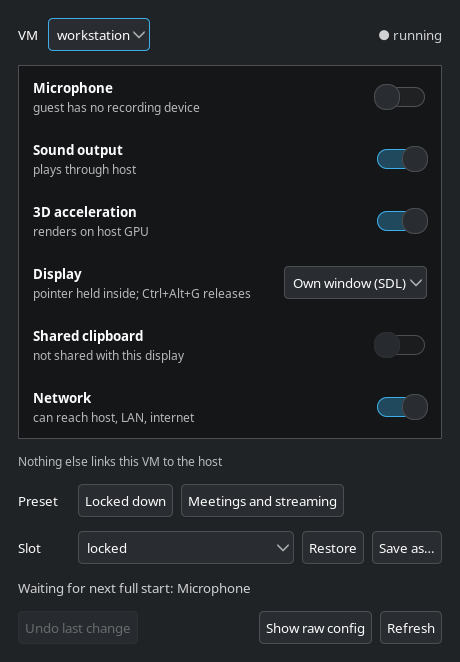
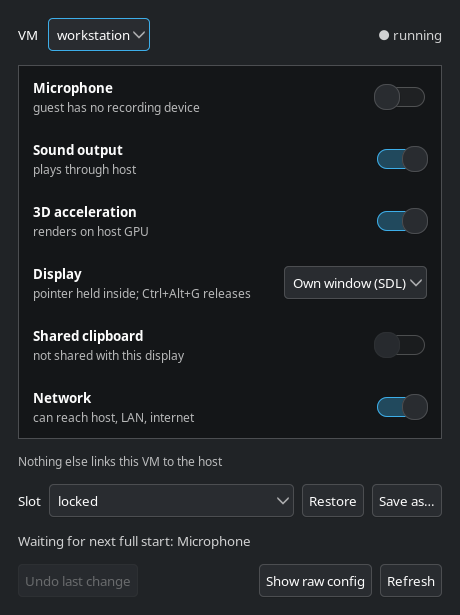
Remove the presets
Save slots cover the same need with the owner's own configurations: set a VM up once, save it under a name, restore it later. The clipboard switch and the list of what else is attached stay.

diff --git a/tests/test_switches.py b/tests/test_switches.py
@@ -90,39 +90,6 @@ class CoreTest(unittest.TestCase):
         self.assertEqual(core.exposures(root),
                          ["2 shared folders", "1 USB redirection port"])
 
-    def test_lockdown_preset(self):
-        root = core.parse(SPICE_VM)
-        core.apply(root, "accel3d", "on")
-        self.assertEqual(core.apply_preset(root, "lockdown"), [])
-        self.assertEqual(values(root), {
-            "mic": "off", "sound": "off", "accel3d": "off",
-            "display": "spice", "clipboard": "off", "network": "off"})
-
-    def test_lockdown_preset_keeps_an_own_window(self):
-        root = core.parse(SPICE_VM)
-        core.apply(root, "display", "gtk", WAYLAND)
-        core.apply_preset(root, "lockdown")
-        self.assertEqual(values(root)["display"], "gtk")
-        self.assertEqual(values(root)["clipboard"], "off")
-
-    def test_media_preset(self):
-        root = core.parse(SPICE_VM)
-        core.apply_preset(root, "lockdown")
-        self.assertEqual(core.apply_preset(root, "media", WAYLAND), [])
-        self.assertEqual(values(root), {
-            "mic": "on", "sound": "on", "accel3d": "on",
-            "display": "sdl", "clipboard": "off", "network": "on"})
-
-    def test_preset_skips_what_the_vm_cannot_do(self):
-        root = core.parse(SPICE_VM)
-        nothing = dict(X11, display="", xauth="")
-        self.assertEqual(core.apply_preset(root, "media", nothing),
-                         ["display"])
-        self.assertEqual(values(root)["display"], "spice")
-        self.assertEqual(values(root)["accel3d"], "on")
-        self.assertEqual(
-            core.apply_preset(core.parse(SPICE_VM), "media", WAYLAND,
-                              fixed=("display",)), ["display"])
 
     def test_microphone_off_and_on(self):
         root = core.parse(SPICE_VM)
@@ -369,18 +336,6 @@ class ManagerTest(unittest.TestCase):
         with self.assertRaises(RuntimeError):
             self.manager.restore_slot(self.vm, "../sample")
 
-    def test_preset_is_one_undo_step(self):
-        skipped = self.manager.apply_preset(self.vm, "lockdown")
-        self.assertEqual(skipped, [])
-        state = self.manager.state(self.vm)
-        self.assertEqual(state["network"]["value"], "off")
-        self.assertEqual(state["sound"]["value"], "off")
-        self.manager.undo(self.vm)
-        with open(os.path.join(self.vms, "sample.xml")) as handle:
-            self.assertEqual(handle.read(), SPICE_VM)
-        self.assertFalse(self.manager.can_undo(self.vm))
-        with self.assertRaises(RuntimeError):
-            self.manager.apply_preset(self.vm, "bogus")
 
     def test_pending_compares_running_and_stored(self):
         with open(os.path.join(self.vms, "sample.live.xml"), "w") as handle:

diff --git a/convirtlib/ui.py b/convirtlib/ui.py
@@ -58,18 +58,8 @@ class Window(Gtk.Window):
         self.attached.get_style_context().add_class("convirt-meaning")
         box.pack_start(self.attached, False, False, 0)
 
-        self.extras = []
-        presets = Gtk.Box(spacing=8)
-        presets.pack_start(self.side_label("Preset"), False, False, 0)
-        for name, preset in core.PRESETS.items():
-            button = Gtk.Button(label=preset["label"])
-            button.connect("clicked", self.on_preset, name)
-            presets.pack_start(button, False, False, 0)
-            self.extras.append(button)
-        box.pack_start(presets, False, False, 0)
-
         slots = Gtk.Box(spacing=8)
-        slots.pack_start(self.side_label("Slot"), False, False, 0)
+        slots.pack_start(Gtk.Label(label="Slot"), False, False, 0)
         self.slot_picker = Gtk.ComboBoxText()
         slots.pack_start(self.slot_picker, True, True, 0)
         self.restore = Gtk.Button(label="Restore")
@@ -78,7 +68,7 @@ class Window(Gtk.Window):
         save = Gtk.Button(label="Save as…")
         save.connect("clicked", self.on_save)
         slots.pack_start(save, False, False, 0)
-        self.extras += [self.slot_picker, save]
+        self.extras = [self.slot_picker, save]
         box.pack_start(slots, False, False, 0)
 
         self.status = Gtk.Label(xalign=0)
@@ -100,11 +90,6 @@ class Window(Gtk.Window):
 
         self.connect("destroy", Gtk.main_quit)
         self.reload_list()
-
-    def side_label(self, text):
-        label = Gtk.Label(label=text, xalign=0)
-        label.set_size_request(52, -1)
-        return label
 
     def build_row(self, name):
         row = Gtk.ListBoxRow()
@@ -246,19 +231,6 @@ class Window(Gtk.Window):
             self.reload("Not changed: %s" % error)
             return
         self.reload()
-
-    def on_preset(self, _button, name):
-        label = core.PRESETS[name]["label"]
-        try:
-            skipped = self.manager.apply_preset(self.vm, name)
-        except RuntimeError as error:
-            self.reload("Not changed: %s" % error)
-            return
-        if skipped:
-            names = ", ".join(core.TITLES[s] for s in skipped)
-            self.reload("%s applied; left as it was: %s" % (label, names))
-        else:
-            self.reload("%s applied" % label)
 
     def on_restore(self, _button):
         slot = self.slot_picker.get_active_text()

diff --git a/convirtlib/core.py b/convirtlib/core.py
@@ -34,21 +34,6 @@ TITLES = {
     "network": "Network",
 }
 CLIPBOARD_CHANNEL = "com.redhat.spice.0"
-
-# A preset is a list of switch positions applied in order as one change.
-# A position the VM cannot take (no sound card to mute, say) is skipped.
-PRESETS = {
-    "lockdown": {
-        "label": "Locked down",
-        "set": (("accel3d", "off"), ("sound", "off"), ("mic", "off"),
-                ("clipboard", "off"), ("network", "off")),
-    },
-    "media": {
-        "label": "Meetings and streaming",
-        "set": (("display", "sdl"), ("accel3d", "on"), ("sound", "on"),
-                ("mic", "on"), ("network", "on")),
-    },
-}
 DISPLAY_LABELS = {
     "sdl": "Own window (SDL)",
     "gtk": "Own window (GTK)",
@@ -283,27 +268,6 @@ def exposures(root):
         if count:
             found.append("%d %s" % (count, one if count == 1 else many))
     return found
-
-
-def apply_preset(root, name, facts=None, fixed=()):
-    """Apply a preset in place. Return the switches it had to skip.
-
-    Switches named in fixed are left alone and reported as skipped.
-    """
-    if name not in PRESETS:
-        raise ValueError("unknown preset: %s" % name)
-    skipped = []
-    for switch, value in PRESETS[name]["set"]:
-        if values(root)[switch] == value:
-            continue
-        if switch in fixed:
-            skipped.append(switch)
-            continue
-        try:
-            apply(root, switch, value, facts)
-        except ValueError:
-            skipped.append(switch)
-    return skipped
 
 
 def raw_fragments(root):

diff --git a/convirtlib/manager.py b/convirtlib/manager.py
@@ -173,32 +173,6 @@ class Manager:
             self.backend.define(vm, core.serialize(root))
         return True
 
-    def apply_preset(self, vm, name, facts=None):
-        """Apply a preset as one change. Return the switches it skipped."""
-        if name not in core.PRESETS:
-            raise RuntimeError("unknown preset: %s" % name)
-        # A system VM cannot open a window in this desktop session.
-        fixed = () if vm.session else ("display",)
-        original = self.backend.xml(vm)
-        root = core.parse(original)
-        before = core.values(root)
-        skipped = core.apply_preset(root, name, facts, fixed)
-        if core.values(root) == before:
-            return skipped
-        backup = self._save_backup(vm, original)
-        try:
-            self.backend.define(vm, core.serialize(root))
-        except RuntimeError:
-            os.remove(backup)
-            raise
-        # Same second pass as change(): re-apply on what libvirt stored.
-        root = self.stored(vm)
-        stored = core.values(root)
-        core.apply_preset(root, name, facts, fixed)
-        if core.values(root) != stored:
-            self.backend.define(vm, core.serialize(root))
-        return skipped
-
     # ------------------------------------------------------------- slots
 
     def slots(self, vm):

diff --git a/convirtlib/cli.py b/convirtlib/cli.py
@@ -5,7 +5,6 @@
     convirt show VM               show every switch of one VM
     convirt set VM SWITCH VALUE   change one switch
     convirt undo VM               restore the config before the last change
-    convirt preset VM PRESET      apply a preset: lockdown or media
     convirt slots VM              list the saved copies of a VM's config
     convirt save VM SLOT          save the current config under a name
     convirt restore VM SLOT       put a saved config back
@@ -70,11 +69,6 @@ def main(argv=None):
         elif len(args) == 2 and args[0] == "undo":
             manager.undo(manager.find(args[1]))
             print("restored")
-        elif len(args) == 3 and args[0] == "preset":
-            skipped = manager.apply_preset(manager.find(args[1]), args[2])
-            print("applied")
-            if skipped:
-                print("left as it was: " + ", ".join(skipped))
         elif len(args) == 2 and args[0] == "slots":
             for name in manager.slots(manager.find(args[1])):
                 print(name)

diff --git a/README.md b/README.md
@@ -1,8 +1,8 @@
 # convirt
 
-![The convirt window: one row per switch for a virtual machine, then presets and save slots, with a line saying what each state means](docs/screenshot.png)
+![The convirt window: one row per switch for a virtual machine, then save slots, with a line saying what each state means](docs/screenshot.png)
 
-convirt shows the security- and display-relevant settings of a libvirt virtual machine as six switches, and changes them without hand-editing XML. Presets set several switches at once, and save slots keep exact copies of a configuration.
+convirt shows the security- and display-relevant settings of a libvirt virtual machine as six switches, and changes them without hand-editing XML. Save slots keep exact copies of a configuration.
 
 | Switch | Values | What it controls |
 |---|---|---|
@@ -57,22 +57,9 @@ The same switches work from a shell:
 
 `mic`, `sound`, `accel3d`, `clipboard` and `network` take `on` or `off`. `display` takes `sdl`, `gtk` or `spice`.
 
-## Presets
+## Also attached
 
-A preset sets several switches in one change, with one undo step.
-
-| Preset | Command name | What it sets |
-|---|---|---|
-| Locked down | `lockdown` | 3D acceleration, sound output, microphone, shared clipboard and network all off. The display stays as it is. |
-| Meetings and streaming | `media` | Own window (SDL), 3D acceleration, sound output, microphone and network all on. |
-
-```sh
-./convirt preset workstation lockdown
-```
-
-A switch the VM cannot take is left as it was and named in the result.
-
-Locked down covers only what the switches cover. Shared folders, host devices passed through to the guest and USB redirection ports also link a VM to its host and have no switch; the window and `convirt show` list them under "Also attached" so they are not missed. Remove them in virt-manager for a VM that holds untrusted software.
+Shared folders, host devices passed through to the guest and USB redirection ports also link a VM to its host, and they have no switch. The window and `convirt show` list them under "Also attached" so they are not missed. Remove them in virt-manager for a VM that holds untrusted software.
 
 ## Save slots
 

diff --git a/CLAUDE.md b/CLAUDE.md
@@ -1,6 +1,6 @@
 # CLAUDE.md — convirt
 
-A desktop tool that shows the microphone, sound output, 3D acceleration, display, shared clipboard and network of a libvirt virtual machine as six switches, with presets and save slots, and changes them through `virsh`. MIT-licensed.
+A desktop tool that shows the microphone, sound output, 3D acceleration, display, shared clipboard and network of a libvirt virtual machine as six switches, with save slots, and changes them through `virsh`. MIT-licensed.
 
 ## Project at a glance
 
